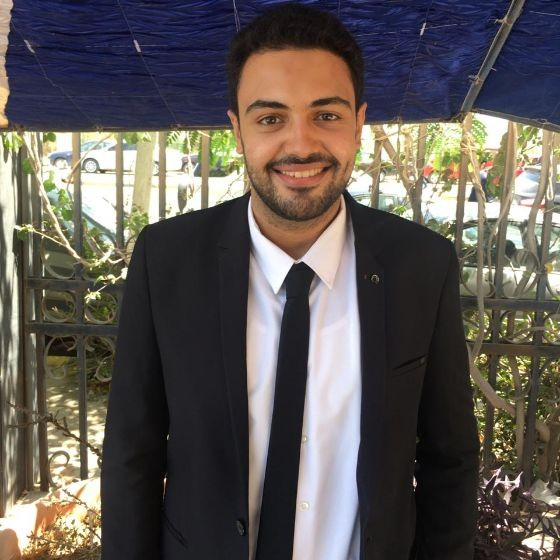
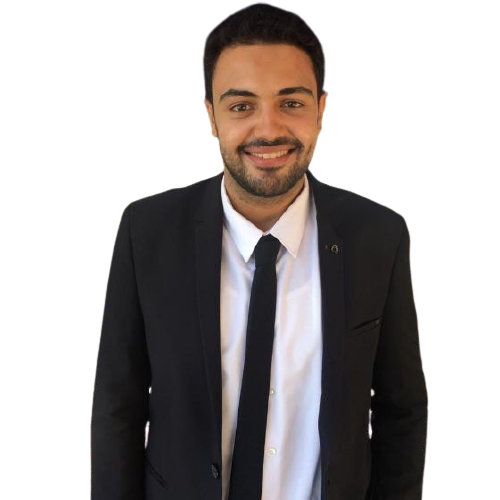
Add some changes on home section

diff --git a/index.html b/index.html
@@ -13,6 +13,11 @@
       rel="stylesheet"
       href="https://unicons.iconscout.com/release/v4.0.0/css/line.css"
     />
+    <!--====================== BoxIcons ==========================-->
+    <link
+      href="https://unpkg.com/boxicons@2.1.1/css/boxicons.min.css"
+      rel="stylesheet"
+    />
 
     <!--========================== Swiper Css File ============================-->
     <link rel="stylesheet" href="css/swiper-bundle.min.css" />
@@ -41,7 +46,7 @@
             </li>
             <li class="nav__item">
               <a href="#skills" class="nav__link">
-                <i class="uil uil-file-alt nav__icon"></i> Skills
+                <i class="bx bx-book nav__icon"></i> Skills
               </a>
             </li>
             <li class="nav__item">
@@ -172,181 +177,8 @@
       </section>
 
       <!--===================== SKILLS ========================-->
-      <section class="skills section" id="skills">
-        <h2 class="section__title">Skills</h2>
-        <span class="section__subtitle">Technical & Personal & Languages</span>
+      <section class="skills section" id="skills"></section>
 
-        <div class="skills__container container grid">
-          <div>
-            <!--===================== SKILL #1 ========================-->
-            <div class="skills__content skills__open">
-              <div class="skills__header">
-                <i class="uil uil-brackets-curly skills__icon"></i>
-
-                <div>
-                  <h1 class="skills__title">Technical</h1>
-                </div>
-
-                <i class="uil uil-angle-down skills__arrow"></i>
-              </div>
-
-              <div class="skills__list grid">
-                <div class="skills__data">
-                  <div class="skills__titles">
-                    <h3 class="skills_name">HTML</h3>
-                    <span class="skills__number">90%</span>
-                  </div>
-                  <div class="skills__bar">
-                    <span class="skills__percentage skills__html"></span>
-                  </div>
-                </div>
-
-                <div class="skills__data">
-                  <div class="skills__titles">
-                    <h3 class="skills_name">CSS</h3>
-                    <span class="skills__number">80%</span>
-                  </div>
-                  <div class="skills__bar">
-                    <span class="skills__percentage skills__css"></span>
-                  </div>
-                </div>
-
-                <div class="skills__data">
-                  <div class="skills__titles">
-                    <h3 class="skills_name">Sass</h3>
-                    <span class="skills__number">50%</span>
-                  </div>
-                  <div class="skills__bar">
-                    <span class="skills__percentage skills__sass"></span>
-                  </div>
-                </div>
-
-                <div class="skills__data">
-                  <div class="skills__titles">
-                    <h3 class="skills_name">JavaScript</h3>
-                    <span class="skills__number">65%</span>
-                  </div>
-                  <div class="skills__bar">
-                    <span class="skills__percentage skills__js"></span>
-                  </div>
-                </div>
-
-                <div class="skills__data">
-                  <div class="skills__titles">
-                    <h3 class="skills_name">Bootstrap</h3>
-                    <span class="skills__number">80%</span>
-                  </div>
-                  <div class="skills__bar">
-                    <span class="skills__percentage skills__bootstrap"></span>
-                  </div>
-                </div>
-
-                <div class="skills__data">
-                  <div class="skills__titles">
-                    <h3 class="skills_name">ReactJS (Hooks)</h3>
-                    <span class="skills__number">50%</span>
-                  </div>
-                  <div class="skills__bar">
-                    <span class="skills__percentage skills__reactjs"></span>
-                  </div>
-                </div>
-
-                <div class="skills__data">
-                  <div class="skills__titles">
-                    <h3 class="skills_name">Pug.js</h3>
-                    <span class="skills__number">40%</span>
-                  </div>
-                  <div class="skills__bar">
-                    <span class="skills__percentage skills__pug"></span>
-                  </div>
-                </div>
-
-                <div class="skills__data">
-                  <div class="skills__titles">
-                    <h3 class="skills_name">Git/Github</h3>
-                    <span class="skills__number">65%</span>
-                  </div>
-                  <div class="skills__bar">
-                    <span class="skills__percentage skills__git"></span>
-                  </div>
-                </div>
-              </div>
-            </div>
-
-            <!--===================== SKILL #2 ========================-->
-            <div class="skills__content skills__close">
-              <div class="skills__header">
-                <i class="uil uil-user skills__icon"></i>
-                <div>
-                  <h1 class="skills__title">Personal</h1>
-                </div>
-
-                <i class="uil uil-angle-down skills__arrow"></i>
-              </div>
-
-              <div class="skills__list grid">
-                <div class="skills__data">
-                  <div class="skills__titles">
-                    <h3 class="skills_name">Time management</h3>
-                  </div>
-                </div>
-
-                <div class="skills__data">
-                  <div class="skills__titles">
-                    <h3 class="skills_name">Work Under Pressure</h3>
-                  </div>
-                </div>
-
-                <div class="skills__data">
-                  <div class="skills__titles">
-                    <h3 class="skills_name">Enthusiasm</h3>
-                  </div>
-                </div>
-
-                <div class="skills__data">
-                  <div class="skills__titles">
-                    <h3 class="skills_name">Willingness to learn</h3>
-                  </div>
-                </div>
-
-                <div class="skills__data">
-                  <div class="skills__titles">
-                    <h3 class="skills_name">Team working</h3>
-                  </div>
-                </div>
-              </div>
-            </div>
-
-            <!--===================== SKILL #3 ========================-->
-            <div class="skills__content skills__close">
-              <div class="skills__header">
-                <i class="uil uil-language skills__icon"></i>
-                <div>
-                  <h1 class="skills__title">Language</h1>
-                </div>
-
-                <i class="uil uil-angle-down skills__arrow"></i>
-              </div>
-
-              <div class="skills__list grid">
-                <div class="skills__data">
-                  <div class="skills__titles">
-                    <h3 class="skills_name">Arabic</h3>
-                  </div>
-                  <div class="skill__degree">Native</div>
-                </div>
-
-                <div class="skills__data">
-                  <div class="skills__titles">
-                    <h3 class="skills_name">English</h3>
-                  </div>
-                  <div class="skill__degree">Intermediate</div>
-                </div>
-              </div>
-            </div>
-          </div>
-        </div>
-      </section>
       <!--===================== SERVICES ========================-->
       <section class="services section" id="services">
         <h2 class="section__title">Services</h2>

diff --git a/css/style.css b/css/style.css
@@ -6,8 +6,17 @@
   --header-height: 3rem;
 
   /*=============== Colors =================*/
-
+  /* Color Mode HSL(hue, saturation, lightness)
+    Putple: hsl(250, 66%, 75%)
+    Blue: hsl(207, 90%, 72%)
+    Pink: hsl(356, 66%, 75%)
+    Teal: hsl(174, 63%, 62%)
+    
+  */
   --hue-color: 230; /* Purple Color: 250 - Green: 142 - Blue: 230 - Pink: 340 */
+  --sat: 60%;
+  --lig: 75%;
+  --second-hue: 219;
 
   /* HSL Color Mode */
   --first-color: HSL(var(--hue-color), 69%, 61%);
@@ -157,6 +166,12 @@ img {
   height: auto;
 }
 
+button {
+  cursor: pointer;
+  outline: none;
+  border: none;
+}
+
 /*======================== Reusable Css Classes ============================*/
 .section {
   padding: 2rem 0 4rem;
@@ -179,7 +194,7 @@ img {
 
 /*====================== LAYOUT  ======================*/
 .container {
-  max-width: 768px;
+  max-width: 968px;
   margin-left: var(--mb-1-5);
   margin-right: var(--mb-1-5);
 }
@@ -211,6 +226,11 @@ img {
 .nav__toggle {
   color: var(--title-color);
   font-weight: var(--font-medium);
+  transition: 0.4s;
+  -webkit-transition: 0.4s;
+  -moz-transition: 0.4s;
+  -ms-transition: 0.4s;
+  -o-transition: 0.4s;
 }
 
 .nav__logo:hover {
@@ -317,17 +337,61 @@ img {
 
 .home__social-icon {
   font-size: 1.25rem;
-  color: var(--first-color);
+  color: var(--container-color);
+  background-color: var(--first-color);
+  width: max-content;
+  padding: 0.25rem;
+  display: flex;
+  border-radius: 0.25rem;
+  -webkit-border-radius: 0.25rem;
+  -moz-border-radius: 0.25rem;
+  -ms-border-radius: 0.25rem;
+  -o-border-radius: 0.25rem;
+  font-size: 1.25rem;
+  transition: 0.4s;
+  -webkit-transition: 0.4s;
+  -moz-transition: 0.4s;
+  -ms-transition: 0.4s;
+  -o-transition: 0.4s;
 }
 
 .home__social-icon:hover {
+  background-color: var(--container-color);
   color: var(--first-color-alt);
 }
 
-.home__img {
-  width: 200px;
-  fill: var(--first-color);
+.home__social::after {
+  content: "";
+  width: 32px;
+  height: 2px;
+  background-color: var(--container-color);
+  transform: rotate(90deg) translate(16px, 3px);
+  -webkit-transform: rotate(90deg) translate(16px, 3px);
+  -moz-transform: rotate(90deg) translate(16px, 3px);
+  -ms-transform: rotate(90deg) translate(16px, 3px);
+  -o-transform: rotate(90deg) translate(16px, 3px);
 }
+
+.home__img {
+  width: 250px;
+  justify-self: center;
+  fill: var(--first-color);
+  background: linear-gradient(
+    180deg,
+    hsla(var(--hue-color), var(--sat), var(--lig), 1),
+    hsla(var(--hue-color), var(--sat), var(--lig), 0.2)
+  );
+  border-radius: 10rem 10rem 1rem 1rem;
+  -webkit-border-radius: 10rem 10rem 1rem 1rem;
+  -moz-border-radius: 10rem 10rem 1rem 1rem;
+  -ms-border-radius: 10rem 10rem 1rem 1rem;
+  -o-border-radius: 10rem 10rem 1rem 1rem;
+  display: flex;
+  align-items: flex-end;
+  justify-content: center;
+  overflow: hidden;
+}
+
 .home__blob {
   width: 200px;
 }
@@ -385,6 +449,8 @@ img {
 
 .home__scroll-arrow {
   font-size: 1.25rem;
+  animation: up-down 1.5s infinite;
+  -webkit-animation: up-down 1.5s infinite;
 }
 
 /*============ BUTTON ============*/
@@ -1306,5 +1372,29 @@ img {
     flex-direction: column;
     column-gap: 5rem;
     right: 2rem;
+  }
+}
+
+/*============ Animation ============*/
+@keyframes up-down {
+  0%,
+  10%,
+  20%,
+  50%,
+  80%,
+  100% {
+    transform: translateY(0);
+    -webkit-transform: translateY(0);
+    -moz-transform: translateY(0);
+    -ms-transform: translateY(0);
+    -o-transform: translateY(0);
+  }
+  40%,
+  60% {
+    transform: translateY(-15px);
+    -webkit-transform: translateY(-15px);
+    -moz-transform: translateY(-15px);
+    -ms-transform: translateY(-15px);
+    -o-transform: translateY(-15px);
   }
 }
